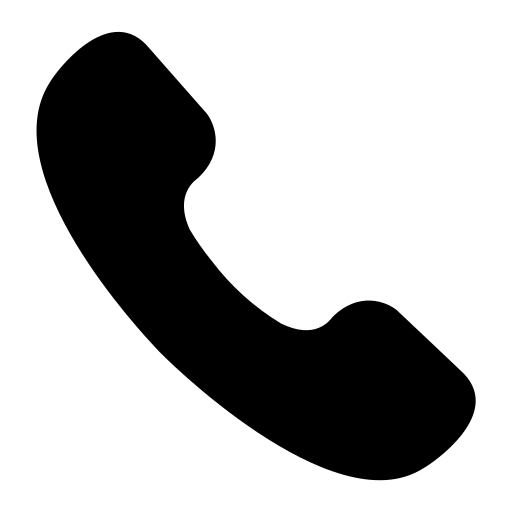
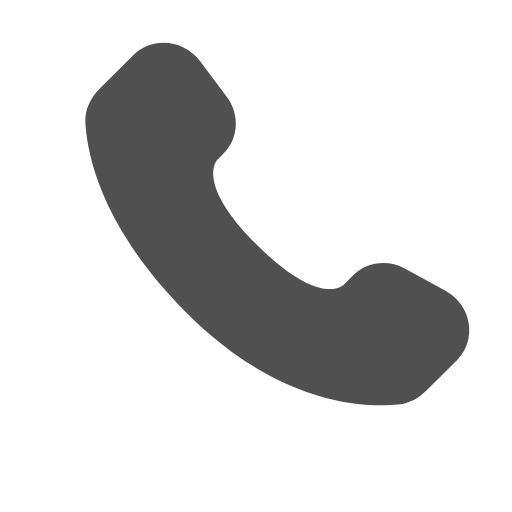
20250312 css, img 수정

diff --git a/index.css b/index.css
@@ -6,14 +6,23 @@
 html,
 body {width: 100vw; margin: 0; padding: 0; cursor: default; overflow-x: hidden;}
 
+*{font-family: 'GowunDodum-Regular', sans-serif;}
 .mobile{width: 100%; max-width: 500px; height: 100vh; margin: 0 auto; border-left: 1px solid #ccc; border-right: 1px solid #ccc; box-shadow: 0px 0px 20px 0px #e0e0e0; position: relative; overflow-x: hidden; overflow-y: scroll;}
 section{width: 100%; margin-bottom: 20%; text-align: center;}
 .copyright{text-align: center; font-size: 3vw; color: #505050; margin-bottom: 5%;}
 
+@font-face {
+    /* 한글 폰트 - 고운돋움 */
+    font-family: 'GowunDodum-Regular';
+    src: url('https://fastly.jsdelivr.net/gh/projectnoonnu/noonfonts_2108@1.1/GowunDodum-Regular.woff') format('woff');
+    font-weight: normal;
+    font-style: normal;
+}
+
 /* scroll bar custom */
-.mobile::-webkit-scrollbar {width: 5px;}
-.mobile::-webkit-scrollbar-thumb {background: #aaaaaa; /* 스크롤바 색상 */ border-radius: 10px; /* 스크롤바 둥근 테두리 */}
-.mobile::-webkit-scrollbar-track {background: rgb(236, 236, 236);  /*스크롤바 뒷 배경 색상*/}
+/* .mobile::-webkit-scrollbar {width: 5px;}
+.mobile::-webkit-scrollbar-thumb {background: #aaaaaa; 스크롤바 색상 border-radius: 10px; 스크롤바 둥근 테두리 }
+.mobile::-webkit-scrollbar-track {background: rgb(236, 236, 236);  스크롤바 뒷 배경 색상} */
 
 .main{position: relative;}
 .main .bg{width: 100%; height: 100%; position: absolute; top: 0; left: 0; background: linear-gradient(180deg, transparent 70%, #fff 95%);}
@@ -26,11 +35,11 @@ section{width: 100%; margin-bottom: 20%; text-align: center;}
 .invi_text h3{margin-bottom: 30px; color: #ea8a8a;}
 .invi_text p{line-height: 1.5}
 
-.tel ul{width: 80%; margin: 0 auto;}
-.tel > ul li{margin-bottom: 15px; display: flex; justify-content: stretch; align-items: center; letter-spacing: 0.5px;}
-.tel ul li .icon_box{display: flex; align-items: center;}
-.tel .icon_tel{display: block; width: 17px; line-height: 16px; margin-left: 10px;}
-.tel .icon_message{display: block; width: 18px; line-height: 18px; margin-left: 10px;}
+.tel ul{width: 75%; margin: 0 auto;}
+.tel > ul li{margin-bottom: 15px; display: flex; justify-content: space-between; align-items: center; letter-spacing: 0.5px;}
+.tel > ul li span:nth-child(2){width: 15%;}
+.tel ul li .icon_box{height: 24px; display: flex; align-items: flex-end;}
+.tel ul li .icon_box a{width: 20px; height: 20px; margin: 0 5px;}
 .tel .w40{display: inline-block; width: 40px; text-align: center;}
 
 .tel .tel_btn{display: block; width: 50%; margin: 30px auto 0; padding: 2% 0; text-align: center; color: #e66363; border: 1px solid #ea8a8a; border-radius: 5px; box-shadow: 3px 3px 5px 0px #bcbcbc;}
@@ -45,45 +54,48 @@ section{width: 100%; margin-bottom: 20%; text-align: center;}
 .tel .slide_tel .parents_tel li{margin: 8px 0;}
 /* .tel .slide_tel p{padding: 0 2px 8px 2px; border-bottom: 1px solid #777;} */
 
+.calendar{padding: 5% 0; background: #fffcfc;}
 .calendar .table_box{width: 90%; margin: 5% auto;}
-.calendar .table_box h1{font-size: 7vw; color: #e78c8c;}
+.calendar .table_box h1{font-size: 30px; color: #e78c8c;}
 .calendar .table_box .c_red{color: #f93f3f;}
 .calendar .table_box .c_blue{color: #5a64be;}
 .calendar .table_box table{width: 100%;}
 .calendar .table_box table thead td{padding: 5% 0;}
 .calendar .table_box table tbody td{padding: 3% 0;}
-.calendar .table_box table tbody td.d_day{position: relative; color: #fff;}
-.calendar .table_box table tbody td.d_day::after{content: '♥'; position: absolute; top: 50%; left: 50%; transform: translate(-50%, -50%); font-size: 14vw; color: #f93f3f; z-index: -1;}
+.calendar .table_box table tbody td.d_day{position: relative; color: #fff; background: url(./img/calendar_heart.png) no-repeat center center / contain;}
+.calendar .table_box table tbody td.d_day::after{content: '오후2:30'; width: 100%; position: absolute; bottom: -20%; left: 50%; transform: translateX(-50%); font-size: 10px; color: #f93f3f; z-index: 1;}
 
 .calendar .timer{margin-top: 10%;}
 .calendar .timer p{margin-bottom: 3%; letter-spacing: 0.5px;}
-.calendar .timer .time{margin-bottom: 5%; font-size: 6vw;}
+.calendar .timer .time{margin-bottom: 5%; font-size: 24px;}
 .calendar .timer .time .col{margin-left: -1%; margin-right: 2%; letter-spacing: -1px;}
 
-.gallery h3{margin-bottom: 10%; color: #e78c8c; letter-spacing: 1px;}
+.gallery h3{margin-bottom: 10%; font-size: 22px; color: #e78c8c; letter-spacing: 1px;}
 .gallery ul{width: 95%; margin: 0 auto; display: grid; grid-template-columns: repeat(3, 1fr); grid-template-rows: 130px 130px 130px; grid-gap: 10px;}
 .gallery ul li{position: relative; overflow: hidden;}
 .gallery ul li a{width: 100%; position: absolute; top: 50%; left: 50%; transform: translate(-50%, -50%);}
 
+.location{padding-top: 10%; background: #fffcfc;}
 .location h3{margin-bottom: 7%; color: #e78c8c; letter-spacing: 1px;}
-.location h4{font-size: 4.5vw; font-weight: normal; line-height: 1.8; display: flex; justify-content: center; align-items: center; flex-wrap: wrap; letter-spacing: 0.5px;}
+.location h4{font-size: 16px; font-weight: normal; line-height: 1.5; display: flex; justify-content: center; align-items: center; flex-wrap: wrap; letter-spacing: 0.5px;}
 .location h4 span{display: block; width: 100%;}
-.location p{margin: 2% 0;}
-.location .icon_tel{display: flex; justify-content: center; align-items: center;}
-.location .icon_tel img{width: 5vw; height: 5vw; margin-left: 3%;}
+.location p{margin: 2% 0; font-size: 14px;}
+.location .icon_tel{display: flex; justify-content: center; align-items: center; font-size: 14px;}
+.location .icon_tel img{width: 18px; height: 18px; margin-left: 2%;}
 
 .location .map{width: 95%; height: 300px; margin: 5% auto;}
-.location .map_list{width: 95%; margin: 0 auto; display: flex; justify-content: space-between; align-items: center;}
+.location .map_list{width: 95%; margin: 0 auto; padding-bottom: 5%; display: flex; justify-content: space-between; align-items: center;}
 .location .map_list li{width: calc(100% / 3 - 6px);}
-.location .map_list li a{display: flex; justify-content: center; align-items: center; padding: 10% 0; border-radius: 5px; box-shadow: 3px 3px 3px 2px #f1f1f1;}
+.location .map_list li a{display: flex; justify-content: center; align-items: center; padding: 10% 0; border-radius: 5px; background: #fff; box-shadow: 3px 3px 3px 2px #f1f1f1;}
 .location .map_list li a img{width: 5vw; height: 5vw; margin-right: 3%;}
 .location .map_list li:first-child a img{width: 4vw; height: 4vw;}
 .location .map_list li a span{font-size: 3.5vw; color: #111;}
 
-.location .transfer_info{width: 93%; margin: 10% auto; text-align: left;}
-.location .transfer_info h3{margin-top: 10%; margin-bottom: 5%; font-size: 4.2vw;}
+.location .transfer_info{width: 100%; padding: 5% 4% 0; text-align: left; background: #fff;}
+.location .transfer_info h3{margin-top: 10%; margin-bottom: 5%; font-size: 16px;}
+.location .transfer_info .subway h3{margin-top: 0;}
 .location .transfer_info ul li{line-height: 2.5; font-size: 3.5vw; color: #505050; word-break: keep-all; letter-spacing: -0.5px;}
-.location .transfer_info ul li.parking_info{font-size: 3vw;}
+.location .transfer_info ul li.parking_info{margin-top: 3%; text-align: center; font-size: 11px;}
 
 .location .transfer_info ul li .sub_line{padding: 1% 3%; margin-left: 1%; font-size: 3.2vw; border-radius: 25px; color: #fff;}
 .location .transfer_info ul li .line_1{background: #365abc;}
@@ -97,10 +109,11 @@ section{width: 100%; margin-bottom: 20%; text-align: center;}
 .location .transfer_info ul li .line3{background: #fb5852;}
 .location .transfer_info ul li .line4{background: #8841d2;}
 
+.account{padding: 10% 0 5%; background: #fffcfc;}
 .account h3{margin-bottom: 7%; color: #e78c8c; letter-spacing: 1px;}
 .account > p{margin-bottom: 5%; line-height: 1.7; font-size: 3.5vw; color: #505050}
 .account .account_info{width: 93%; margin: 0 auto;}
-.account .account_info > ul > li{margin-bottom: 5%; border: 1px solid #ccc; border-radius: 10px; box-shadow: 3px 3px 3px 2px #f1f1f1;}
+.account .account_info > ul > li{margin-bottom: 5%; border: 1px solid #ccc; border-radius: 10px; background: #fff; box-shadow: 3px 3px 3px 2px #f1f1f1;}
 .account .account_info > ul > li > a{padding: 3% 10%; display: flex; justify-content: space-between; align-items: center; font-weight: bold;}
 .account .account_info > ul > li > a .arrow_btn{width: 8vw; height: 8vw; transition: 0.5s;}
 .account .account_info > ul > li > a .arrow_btn.on{transform: rotate(180deg); transition: 0.5s;}
@@ -109,13 +122,13 @@ section{width: 100%; margin-bottom: 20%; text-align: center;}
 
 .account .account_info ul .slide_account{display: none;}
 .account .account_info ul .slide_account li{padding: 5% 10% 3%; text-align: left; border-top: 0.5px solid #ddd;}
-.account .account_info ul .slide_account li p{margin-bottom: 5%;}
+.account .account_info ul .slide_account li p{margin-bottom: 3%;}
 .account .account_info ul li.groom .slide_account li p{color: #5a64be;}
 .account .account_info ul li.bride .slide_account li p{color: #e78c8c;}
-.account .account_info ul .slide_account li span{display: block; margin-bottom: 2%;}
-.account .account_info ul .slide_account li .copy_btn{position: absolute; top: 50%; right: 5%; transform: translateY(-50%); padding: 1.5% 5%; font-size: 3.5vw; color: #353535; border: 1px solid #ddd; box-shadow: 2px 2px 2px 1px #f1f1f1;}
+.account .account_info ul .slide_account li span{display: block; margin-bottom: 2%; font-size: 14px;}
+.account .account_info ul .slide_account li .copy_btn{position: absolute; top: 50%; right: 5%; transform: translateY(-50%); padding: 1.5% 5%; font-size: 3.5vw; color: #353535; border: 1px solid #ddd; border-radius: 3px; box-shadow: 2px 2px 2px 1px #f1f1f1;}
 
 .account .account_info .copied_msg{width: 70%; padding: 4% 0; position: fixed; bottom: -30%; left: 50%; transform: translateX(-50%); font-size: 4.5vw; color: #fff; background: #4c4c4c; border-radius: 5px; box-shadow: 3px 3px 5px 2px #7d7d7d; opacity: 0; transition: all 0.5s ease-in-out;}
 
-.video h3{margin-bottom: 7%; color: #e78c8c; letter-spacing: 1px;}
+.video h3{margin-bottom: 10%; color: #e78c8c; letter-spacing: 1px;}
 .video iframe{width: 93%; height: 52vw;}

diff --git a/index.html b/index.html
@@ -26,14 +26,6 @@
     Kakao.init('c8376f9e2f969bcbd69c4594329971b2');
     Kakao.isInitialized();
 
-    // function startNavigation() {
-    //     Kakao.Navi.start({
-    //     name: '벨라루체웨딩홀 서울점',
-    //     x: 126.925356,
-    //     y: 37.553756,
-    //     coordType: 'wgs84',
-    //     });
-    // }
     function startNavigation() {
         Kakao.Navi.share({
         name: '벨라루체웨딩홀 서울점',
@@ -61,7 +53,7 @@
             </div>
 
             <div class="main_info">
-                <p>2025년 10월 19일 일요일 오후 2시 30분</p>
+                <p>2025년 10월 19일 일요일<br>오후 2시 30분</p>
                 <h3>벨라루체 서울 2층 벨라홀</h3>
             </div>
         </section>
@@ -81,7 +73,9 @@
         <section class="tel">
             <ul>
                 <li>
-                    최아빠·이엄마의<span class="w40">아들</span>철수
+                    <span>최아빠·이엄마의</span>
+                    <span>아들</span>
+                    <span>철수</span>
                     <div class="icon_box">
                         <a class="icon_tel" href="tel:010-1234-1234">
                             <img src="img/icon_tel.png" alt="">
@@ -92,7 +86,9 @@
                     </div>
                 </li>
                 <li>
-                    김아빠·조엄마의<span class="w40">딸</span>영희
+                    <span>김아빠·조엄마의</span>
+                    <span>딸</span>
+                    <span>영희</span>
                     <div class="icon_box">
                         <a class="icon_tel" href="tel:010-1234-1234">
                             <img src="img/icon_tel.png" alt="">
@@ -113,10 +109,10 @@
                                 <span>아버지</span> 최철수
                                 <div class="icon_box">
                                     <a class="icon_tel" href="tel:010-1234-1234">
-                                        <img src="img/icon_tel.png" alt="">
+                                        <img src="img/icon_tel_blue.png" alt="">
                                     </a>
                                     <a class="icon_message" href="sms:01012341234">
-                                        <img src="img/icon_message.png" alt="">
+                                        <img src="img/icon_message_blue.png" alt="">
                                     </a>
                                 </div>
                             </li>
@@ -124,10 +120,10 @@
                                 <span>어머니</span> 김영희
                                 <div class="icon_box">
                                     <a class="icon_tel" href="tel:010-1234-1234">
-                                        <img src="img/icon_tel.png" alt="">
+                                        <img src="img/icon_tel_blue.png" alt="">
                                     </a>
                                     <a class="icon_message" href="sms:01012341234">
-                                        <img src="img/icon_message.png" alt="">
+                                        <img src="img/icon_message_blue.png" alt="">
                                     </a>
                                 </div>
                             </li>
@@ -140,10 +136,10 @@
                                 <span>아버지</span> 최철수
                                 <div class="icon_box">
                                     <a class="icon_tel" href="tel:010-1234-1234">
-                                        <img src="img/icon_tel.png" alt="">
+                                        <img src="img/icon_tel_pink.png" alt="">
                                     </a>
                                     <a class="icon_message" href="sms:01012341234">
-                                        <img src="img/icon_message.png" alt="">
+                                        <img src="img/icon_message_pink.png" alt="">
                                     </a>
                                 </div>
                             </li>
@@ -151,10 +147,10 @@
                                 <span>어머니</span> 김영희
                                 <div class="icon_box">
                                     <a class="icon_tel" href="tel:010-1234-1234">
-                                        <img src="img/icon_tel.png" alt="">
+                                        <img src="img/icon_tel_pink.png" alt="">
                                     </a>
                                     <a class="icon_message" href="sms:01012341234">
-                                        <img src="img/icon_message.png" alt="">
+                                        <img src="img/icon_message_pink.png" alt="">
                                     </a>
                                 </div>
                             </li>
